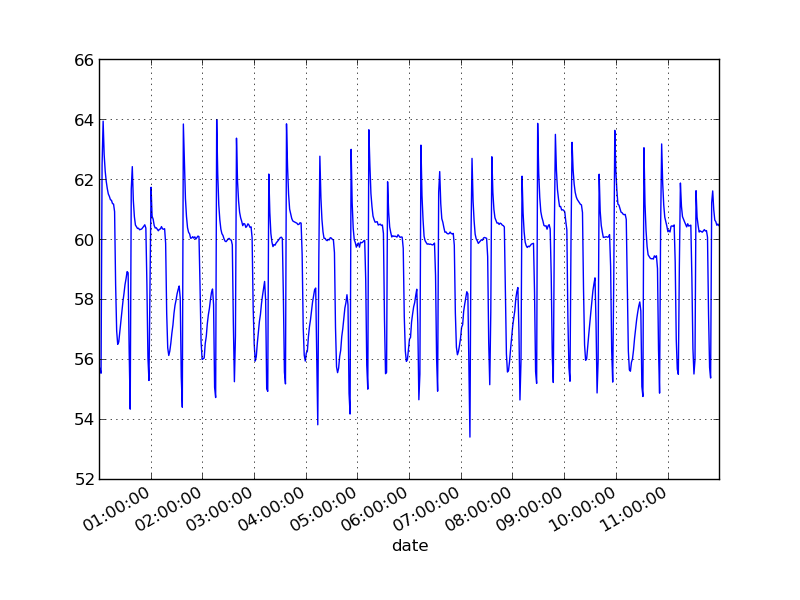
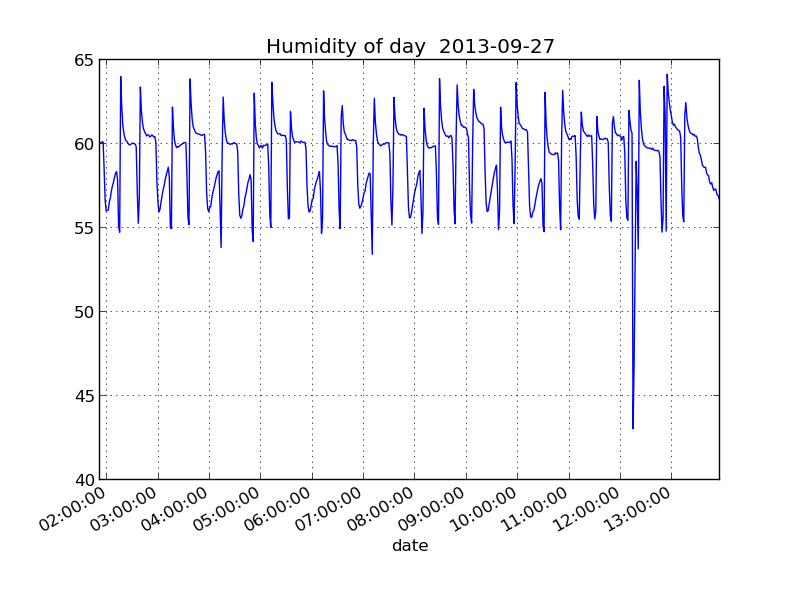
Enhanced some tips in functions to retrieve humidity and temperature

diff --git a/Raspberry_files/charts.py b/Raspberry_files/charts.py
@@ -67,7 +67,7 @@ def retrieve_DBs():
 def extract_data_from_DB(datetime_format, db_local_path, db_utils_dict):
 	with sqlite3.connect(db_local_path, detect_types=sqlite3.PARSE_DECLTYPES) as conn:
 	    dataframe_sqlite = psql.frame_query('select ' + db_utils_dict['table_columns'][0] + ', ' + db_utils_dict['table_columns'][1] + 
-	    	', ' + db_utils_dict['table_columns'][2] + ' from ' + db_utils_dict['table_name'], con=conn)
+	    	', ' + db_utils_dict['table_columns'][2] + ' from ' + db_utils_dict['table_name'] , con=conn)
 	    # TODO: change the hour to 2 hours more! -> http://pandas.pydata.org/pandas-docs/dev/generated/pandas.tseries.tools.to_datetime.html 
 	    # This solution is a bit hacky ... and slow!!!   
 	    dataframe_sqlite.index = pd.to_datetime(dataframe_sqlite.pop(db_utils_dict['table_columns'][0]))
@@ -78,17 +78,22 @@ def extract_data_from_DB(datetime_format, db_local_path, db_utils_dict):
 def save_humi_from_dataframe_by_day(dataframe, string_day):
 	plt.title('Humidity of day  %s' % string_day)
 	today_plot = dataframe.humi[string_day]
-	today_plot.plot()
-	plt.savefig('humi_%s.png' % string_day, orientation='landscape')
-	#plt.show()
+	today_plot.tail(100).plot()
+	#plt.savefig('humi_%s.png' % string_day, orientation='landscape')
+	plt.show()
 	plt.close()
 
 def save_temp_from_dataframe_by_day(dataframe, string_day, temp_param_MAX, temp_param_MIN, temp_MAX, temp_MIN, temp_limit_SUP, temp_limit_INF):
 	plt.title('Temperature of day  %s' % string_day)
 	today_plot = dataframe.TEMP_LOG[string_day]
 	plt.ylim(temp_limit_INF, temp_limit_SUP)
- 	y=np.arange(temp_limit_INF, temp_limit_SUP, 0.5)
-	today_plot.plot()
+ 	y=np.arange(temp_limit_INF, temp_limit_SUP, 0.2)
+ 	plt.yticks(y)
+	today_plot.tail(600).plot()
+	#today_plot_mean = today_plot.tail(100).mean()
+	today_plot_last = today_plot.tail(1).mean()
+	legend( (today_plot_last, 'SHT1x') , loc = 'upper left')
+	#print "MEAN: ", today_plot_mean
 	plt.savefig('temp_%s.png' % string_day, orientation='landscape')
 	#plt.show()
 	plt.close()
@@ -172,8 +177,8 @@ def save_temp_from_dataframe_by_day(dataframe, string_day, temp_param_MAX, temp_
 retrieve_DBs()
 SHT1x_dataframe = extract_data_from_DB(datetime_format, local_path_SHT1xdb, SHT1xdb_utils_dict)
 thermo_dataframe = extract_data_from_DB(datetime_format, local_path_thermodb, thermodb_utils_dict)
-save_humi_from_dataframe_by_day(SHT1x_dataframe, '2013-09-26')
-save_temp_from_dataframe_by_day(thermo_dataframe, '2013-09-26')
+save_humi_from_dataframe_by_day(SHT1x_dataframe, '2013-09-27')
+save_temp_from_dataframe_by_day(thermo_dataframe, '2013-09-27', temp_param_MAX, temp_param_MIN, temp_MAX, temp_param_MIN, 41, 36)
 #print SHT1x_dataframe
 #print thermo_dataframe
 
